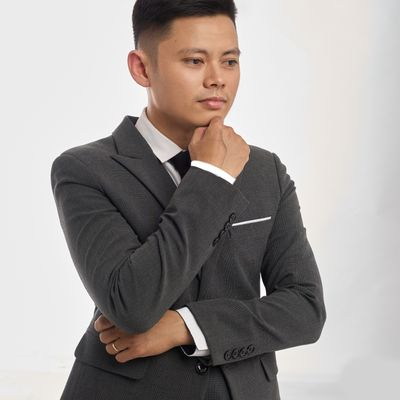
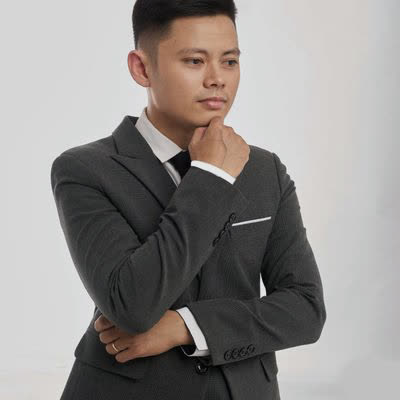
Punch up Triggered Games, polish Meridian Partners typography and photos
Triggered Games: fix the wordmark so it reads "Triggered Games" instead of
just "Triggered" (proper title case in markup, legible same-line badge
instead of a near-invisible caption). Add restrained chaos on top of the
existing lava hero — a random chromatic-split glitch on the headline, ember
particles, a card jolt on hover, and a Photoshop-glitched crossfade on the
venue photo — all gated behind prefers-reduced-motion and viewport checks.

Meridian Partners: pair a serif (Source Serif 4) for headings and names
against the existing Inter body/UI text, and grade the four team photos
with one consistent Photoshop adjustment so they read as one team instead
of four different photoshoots.

diff --git a/templates/entertainment-triggered/css/style.css b/templates/entertainment-triggered/css/style.css
@@ -127,6 +127,7 @@ p { line-height: 1.65; color: var(--dim); }
   transition: transform 0.35s var(--ease), background 0.25s, color 0.25s, border-color 0.25s;
 }
 .btn:hover { transform: translateY(-2px); }
+.btn:active { transform: scale(0.95) translateY(0); }
 .btn-hot { background: var(--hot); color: #fff; box-shadow: 0 12px 34px -14px rgba(255, 45, 111, 0.9); }
 .btn-hot:hover { background: #ff4a82; }
 .btn-line { border-color: var(--line); color: var(--ink); }
@@ -160,15 +161,27 @@ p { line-height: 1.65; color: var(--dim); }
 }
 .logo { display: flex; align-items: center; gap: 0.55rem; }
 .logo-mark { color: var(--hot); display: block; }
-.logo-word { font-family: var(--font-display); font-size: 1.05rem; letter-spacing: 0.06em; }
-/* Full legal name, "Triggered Games" — the mark alone read as just "Triggered". */
+.logo-word { font-family: var(--font-display); font-size: 1.05rem; letter-spacing: 0.06em; text-transform: uppercase; }
+/* Full legal name is "Triggered Games" — a same-line pill keeps "Games" as
+   legible as "Triggered" instead of shrinking it into an easy-to-miss caption.
+   Markup carries proper title case (screen readers, copy-paste); this class
+   is what renders it as the all-caps tag. */
 .logo-suffix {
   font-family: var(--font-mono);
-  font-size: 0.56rem;
-  letter-spacing: 0.14em;
-  color: var(--dim);
-  margin-left: 0.4rem;
-  vertical-align: 0.15em;
+  font-weight: 700;
+  font-size: 0.68rem;
+  letter-spacing: 0.1em;
+  text-transform: uppercase;
+  color: var(--ink);
+  /* .logo is a flex row with its own gap, so this margin is redundant there
+     (slightly widens that gap, harmlessly); .foot-wordmark is plain inline
+     text with no gap, where this margin is the only thing separating the
+     two words. */
+  margin-left: 0.45rem;
+  padding: 0.18rem 0.45rem;
+  border: 1px solid var(--line);
+  border-radius: 4px;
+  vertical-align: 0.05em;
 }
 
 .nav-links { display: flex; gap: 1.9rem; }
@@ -273,6 +286,38 @@ p { line-height: 1.65; color: var(--dim); }
 .hero.is-lit .line:nth-child(3) .rise { transition-delay: 0.14s; }
 .hero.is-lit .line:nth-child(4) .rise { transition-delay: 0.21s; }
 
+/* Ambient chaos — a brief chromatic-split jolt at random intervals (see
+   main.js), not a loop. Reads as an unstable signal, not a decoration. */
+.hero-title.is-glitching {
+  animation: titleGlitch 0.4s linear;
+}
+@keyframes titleGlitch {
+  0%, 100% { text-shadow: none; transform: translate(0); clip-path: none; }
+  8% { text-shadow: -3px 0 var(--hot), 3px 0 var(--volt); transform: translate(-3px, 0); clip-path: inset(0 0 62% 0); }
+  22% { text-shadow: 3px 0 var(--hot), -3px 0 var(--volt); transform: translate(2px, 0); clip-path: inset(48% 0 0 0); }
+  36% { text-shadow: -2px 0 var(--volt), 2px 0 var(--hot); transform: translate(-1px, 0); clip-path: inset(0 0 20% 0); }
+  50% { text-shadow: none; transform: translate(0); clip-path: none; }
+  64% { text-shadow: 2px 0 var(--hot), -2px 0 var(--volt); transform: translate(1px, 0); clip-path: inset(70% 0 0 0); }
+}
+
+/* Sparse ember-and-static particles, spawned by main.js at random offsets
+   and intervals so the timing never repeats identically. */
+.spark-field { position: absolute; inset: 0; z-index: -1; overflow: hidden; pointer-events: none; }
+.spark {
+  position: absolute;
+  width: 3px; height: 3px;
+  border-radius: 50%;
+  opacity: 0;
+  animation-name: sparkPop;
+  animation-timing-function: cubic-bezier(0.22, 1, 0.36, 1);
+  animation-fill-mode: forwards;
+}
+@keyframes sparkPop {
+  0% { opacity: 0; transform: translateY(0) scale(0.5); }
+  18% { opacity: 1; }
+  100% { opacity: 0; transform: translateY(-46px) scale(1); }
+}
+
 .hero-sub { max-width: 44ch; font-size: clamp(0.95rem, 1.3vw, 1.08rem); margin-bottom: 2rem; }
 .hero-actions { display: flex; flex-wrap: wrap; gap: 0.75rem; margin-bottom: 2.6rem; }
 
@@ -318,9 +363,19 @@ p { line-height: 1.65; color: var(--dim); }
   padding: 1.7rem 1.6rem 1.5rem;
   display: flex;
   flex-direction: column;
-  transition: background 0.35s var(--ease);
+  transition: background 0.35s var(--ease), box-shadow 0.35s var(--ease);
 }
-.game:hover { background: #17122a; }
+.game:hover {
+  background: #17122a;
+  box-shadow: inset 0 0 0 1px var(--hot);
+  animation: cardJolt 0.4s var(--ease);
+}
+@keyframes cardJolt {
+  0% { transform: scale(1) rotate(0); }
+  35% { transform: scale(1.012) rotate(-0.35deg); }
+  65% { transform: scale(0.997) rotate(0.2deg); }
+  100% { transform: scale(1) rotate(0); }
+}
 .game h3 { margin-bottom: 0.6rem; }
 .game > p { font-size: 0.92rem; margin-bottom: 1.3rem; }
 .game.is-flag { background: linear-gradient(155deg, #1c1030, var(--panel) 62%); }
@@ -521,13 +576,49 @@ p { line-height: 1.65; color: var(--dim); }
 .vsmall { font-size: 0.8rem !important; color: var(--dim-2); margin-top: 0.7rem; }
 
 .visit-shot {
+  position: relative;
   max-width: var(--maxw);
   margin: clamp(1.6rem, 4vw, 2.6rem) auto 0;
   border-radius: 12px;
   overflow: hidden;
   border: 1px solid var(--line-soft);
 }
-.visit-shot img { width: 100%; filter: saturate(1.05) brightness(0.85); }
+.visit-shot img { width: 100%; display: block; filter: saturate(1.05) brightness(0.85); }
+/* The glitch layer is a Photoshop chromatic-aberration pass on the same
+   photo (see IMAGE-CREDITS.md) — a real edit, not a CSS filter fake. */
+.visit-glitch {
+  position: absolute; inset: 0;
+  width: 100%; height: 100%;
+  object-fit: cover;
+  opacity: 0;
+  transition: opacity 0.12s steps(2, end);
+}
+.visit-shot:hover .visit-glitch {
+  opacity: 1;
+  animation: visitFlicker 0.7s steps(7, end) infinite;
+}
+@keyframes visitFlicker {
+  0%, 100% { opacity: 1; }
+  46% { opacity: 0.82; }
+  52% { opacity: 1; }
+  79% { opacity: 0.55; }
+  84% { opacity: 1; }
+}
+.visit-hint {
+  position: absolute; right: 0.9rem; bottom: 0.9rem;
+  font-family: var(--font-mono); font-size: 0.66rem;
+  letter-spacing: 0.12em; text-transform: uppercase;
+  color: var(--ink);
+  padding: 0.35rem 0.7rem;
+  border-radius: 100px;
+  background: rgba(7, 6, 13, 0.6);
+  border: 1px solid var(--line);
+  opacity: 0.85;
+  transition: opacity 0.3s;
+  pointer-events: none;
+}
+.visit-shot:hover .visit-hint { opacity: 0; }
+@media (hover: none) { .visit-hint { display: none; } }
 
 /* ============================================================
    GROUPS

diff --git a/templates/entertainment-triggered/js/main.js b/templates/entertainment-triggered/js/main.js
@@ -28,6 +28,73 @@
   setTimeout(light, 320);
 
   /* ----------------------------------------------------------
+     Shared "is the hero visible" flag for the two effects below —
+     tracked independently of either effect's own DOM nodes so one
+     effect's markup can't silently disable the other's gating.
+     ---------------------------------------------------------- */
+  var heroOnScreen = true;
+  if (hero && !reduced && 'IntersectionObserver' in window) {
+    new IntersectionObserver(function (e) { heroOnScreen = e[0].isIntersecting; }, { threshold: 0 }).observe(hero);
+  }
+
+  /* ----------------------------------------------------------
+     Random hero glitch
+     A brief chromatic-split jolt on the headline at an irregular
+     interval — never the same gap twice, so it reads as an
+     unstable signal rather than a metronome. Only while the hero
+     is on screen, and never for reduced-motion.
+     ---------------------------------------------------------- */
+  var heroTitle = document.querySelector('.hero-title');
+  if (heroTitle && !reduced) {
+    (function scheduleGlitch() {
+      var wait = 4200 + Math.random() * 7000; // 4.2s – 11.2s, never fixed
+      setTimeout(function () {
+        if (heroOnScreen && !document.hidden) {
+          heroTitle.classList.remove('is-glitching');
+          void heroTitle.offsetWidth; // restart the animation cleanly
+          heroTitle.classList.add('is-glitching');
+        }
+        scheduleGlitch();
+      }, wait);
+    })();
+  }
+
+  /* ----------------------------------------------------------
+     Random hero sparks
+     Small embers popping at random positions/times inside the
+     hero. Capped concurrency so it stays a texture, not noise.
+     ---------------------------------------------------------- */
+  var sparkField = document.getElementById('sparkField');
+  if (sparkField && !reduced) {
+    var liveSparks = 0;
+    var SPARK_CAP = 5;
+    var SPARK_COLORS = ['var(--volt)', 'var(--hot)', 'var(--flame)'];
+    (function scheduleSpark() {
+      var wait = 700 + Math.random() * 1600;
+      setTimeout(function () {
+        if (liveSparks < SPARK_CAP && heroOnScreen && !document.hidden) {
+          var s = document.createElement('span');
+          var color = SPARK_COLORS[Math.floor(Math.random() * SPARK_COLORS.length)];
+          var dur = (1.1 + Math.random() * 1.3).toFixed(2);
+          s.className = 'spark';
+          s.style.left = (4 + Math.random() * 92) + '%';
+          s.style.top = (30 + Math.random() * 68) + '%';
+          s.style.background = color;
+          s.style.boxShadow = '0 0 7px 1px ' + color;
+          s.style.animationDuration = dur + 's';
+          sparkField.appendChild(s);
+          liveSparks++;
+          setTimeout(function () {
+            s.remove();
+            liveSparks--;
+          }, dur * 1000);
+        }
+        scheduleSpark();
+      }, wait);
+    })();
+  }
+
+  /* ----------------------------------------------------------
      Nav
      ---------------------------------------------------------- */
   var nav = document.getElementById('nav');

diff --git a/templates/entertainment-triggered/index.html b/templates/entertainment-triggered/index.html
@@ -43,7 +43,7 @@
       <span class="logo-mark" aria-hidden="true">
         <svg viewBox="0 0 32 32" width="18" height="18"><path d="M9 22l7-13 7 13z" fill="none" stroke="currentColor" stroke-width="3" stroke-linejoin="round"/></svg>
       </span>
-      <span class="logo-word">TRIGGERED</span><span class="logo-suffix">GAMES</span>
+      <span class="logo-word">Triggered</span><span class="logo-suffix">Games</span>
     </a>
     <nav class="nav-links" aria-label="Primary">
       <a href="#games" class="nav-key">Games</a>
@@ -59,6 +59,7 @@
 <section class="hero" id="top">
   <div class="lava" id="lava" aria-hidden="true"></div>
   <div class="hero-veil" aria-hidden="true"></div>
+  <div class="spark-field" id="sparkField" aria-hidden="true"></div>
 
   <div class="hero-inner">
     <p class="hero-tag reveal"><span class="pip" aria-hidden="true"></span> Cineleisure, Orchard · 2 min from Somerset MRT</p>
@@ -300,7 +301,9 @@
   </div>
 
   <figure class="visit-shot reveal">
-    <img src="img/venue.webp" alt="A dark corridor lit with coloured neon tubes, evoking the venue's lighting." width="1300" height="724" loading="lazy">
+    <img class="visit-base" src="img/venue.webp" alt="A dark corridor lit with coloured neon tubes, evoking the venue's lighting." width="1300" height="724" loading="lazy">
+    <img class="visit-glitch" src="img/venue-glitch.webp" alt="" aria-hidden="true" width="1300" height="724" loading="lazy">
+    <figcaption class="visit-hint">Hover to glitch</figcaption>
   </figure>
 </section>
 
@@ -393,7 +396,7 @@
 <footer class="foot">
   <div class="foot-top">
     <div class="foot-brand">
-      <p class="foot-wordmark"><span class="logo-word">TRIGGERED</span><span class="logo-suffix">GAMES</span></p>
+      <p class="foot-wordmark"><span class="logo-word">Triggered</span><span class="logo-suffix">Games</span></p>
       <p>Cineleisure, #02-08/09, 8 Grange Road, Singapore 239695<br>
         <a href="tel:+6560220299">+65 6022 0299</a> ·
         <a href="mailto:enquiry@triggeredgames.sg">enquiry@triggeredgames.sg</a></p>

diff --git a/templates/business-corporate/css/style.css b/templates/business-corporate/css/style.css
@@ -16,6 +16,7 @@
   --color-border: #e5e7ec;
 
   --font-sans: 'Inter', 'Segoe UI', system-ui, sans-serif;
+  --font-serif: 'Source Serif 4', Georgia, serif;
   --font-heading: var(--font-sans);
   --font-body: var(--font-sans);
 
@@ -48,11 +49,15 @@ ul { list-style: none; }
   padding: 0 24px;
 }
 
+/* Serif for actual prose headings and names only — everything else that
+   rode on --font-heading (brand mark, badges, step numbers, labels) stays
+   on Inter, so the serif reads as an editorial choice, not a font change
+   applied everywhere at once. */
 h1, h2, h3, h4 {
-  font-family: var(--font-heading);
-  font-weight: 700;
+  font-family: var(--font-serif);
+  font-weight: 600;
   line-height: 1.2;
-  letter-spacing: -0.02em;
+  letter-spacing: 0;
   color: var(--color-navy);
 }
 
@@ -454,7 +459,10 @@ footer {
 
 /* ---------- Team ---------- */
 .team-card { text-align: center; }
-.team-card .avatar { width: 72px; height: 72px; font-size: 1.25rem; margin: 0 auto 16px; }
+/* A slightly heavier, brand-toned ring so four photos shot on four different
+   backgrounds still read as one consistent team grid rather than four
+   unrelated headshots. */
+.team-card .avatar { width: 72px; height: 72px; font-size: 1.25rem; margin: 0 auto 16px; border-width: 2px; border-color: var(--color-gold-light); }
 .team-card h3 { font-size: 1rem; margin-bottom: 4px; }
 .team-card .role { color: var(--color-gold); font-size: 0.82rem; font-weight: 600; margin-bottom: 10px; }
 .team-card p.bio { color: var(--color-text-muted); font-size: 0.86rem; }

diff --git a/templates/business-corporate/services.html b/templates/business-corporate/services.html
@@ -18,7 +18,7 @@
 <meta property="og:url" content="https://website-collection-zanezhijies-projects.vercel.app/templates/business-corporate/services.html">
 <meta name="twitter:card" content="summary">
 <link rel="preconnect" href="https://fonts.googleapis.com">
-<link href="https://fonts.googleapis.com/css2?family=Inter:wght@400;500;600;700;800&display=swap" rel="stylesheet">
+<link href="https://fonts.googleapis.com/css2?family=Inter:wght@400;500;600;700;800&family=Source+Serif+4:opsz,wght@8..60,400;8..60,600;8..60,700&display=swap" rel="stylesheet">
 <link rel="stylesheet" href="css/style.css">
 </head>
 <body>

diff --git a/templates/business-corporate/contact.html b/templates/business-corporate/contact.html
@@ -18,7 +18,7 @@
 <meta property="og:url" content="https://website-collection-zanezhijies-projects.vercel.app/templates/business-corporate/contact.html">
 <meta name="twitter:card" content="summary">
 <link rel="preconnect" href="https://fonts.googleapis.com">
-<link href="https://fonts.googleapis.com/css2?family=Inter:wght@400;500;600;700;800&display=swap" rel="stylesheet">
+<link href="https://fonts.googleapis.com/css2?family=Inter:wght@400;500;600;700;800&family=Source+Serif+4:opsz,wght@8..60,400;8..60,600;8..60,700&display=swap" rel="stylesheet">
 <link rel="stylesheet" href="css/style.css">
 </head>
 <body>

diff --git a/templates/business-corporate/about.html b/templates/business-corporate/about.html
@@ -18,7 +18,7 @@
 <meta property="og:url" content="https://website-collection-zanezhijies-projects.vercel.app/templates/business-corporate/about.html">
 <meta name="twitter:card" content="summary">
 <link rel="preconnect" href="https://fonts.googleapis.com">
-<link href="https://fonts.googleapis.com/css2?family=Inter:wght@400;500;600;700;800&display=swap" rel="stylesheet">
+<link href="https://fonts.googleapis.com/css2?family=Inter:wght@400;500;600;700;800&family=Source+Serif+4:opsz,wght@8..60,400;8..60,600;8..60,700&display=swap" rel="stylesheet">
 <link rel="stylesheet" href="css/style.css">
 </head>
 <body>

diff --git a/templates/business-corporate/index.html b/templates/business-corporate/index.html
@@ -32,7 +32,7 @@
 </script>
 
 <link rel="preconnect" href="https://fonts.googleapis.com">
-<link href="https://fonts.googleapis.com/css2?family=Inter:wght@400;500;600;700;800&display=swap" rel="stylesheet">
+<link href="https://fonts.googleapis.com/css2?family=Inter:wght@400;500;600;700;800&family=Source+Serif+4:opsz,wght@8..60,400;8..60,600;8..60,700&display=swap" rel="stylesheet">
 <link rel="stylesheet" href="css/style.css">
 </head>
 <body>

diff --git a/templates/entertainment-triggered/IMAGE-CREDITS.md b/templates/entertainment-triggered/IMAGE-CREDITS.md
@@ -47,6 +47,8 @@ graded with the Adobe Lightroom API.
 
 Re-encoded locally to WebP (Pillow, quality 72–74, method 6) — **26 KB for the set**.
 
+`img/venue-glitch.webp` is a derivative of `venue.webp`, run through the Photoshop API's chromatic-aberration glitch effect (red channel shifted -16px) and re-encoded to WebP (ffmpeg, ~1300×724, 35 KB). It's the hover state of the visit-section photo (`.visit-glitch` in `css/style.css`, wired up in `index.html`) — a real edit, not a CSS filter standing in for one.
+
 ### Two images were deliberately cut
 
 A laser-tag photograph (Adobe Stock 386439997) was licensed and graded for the hero, then dropped:
